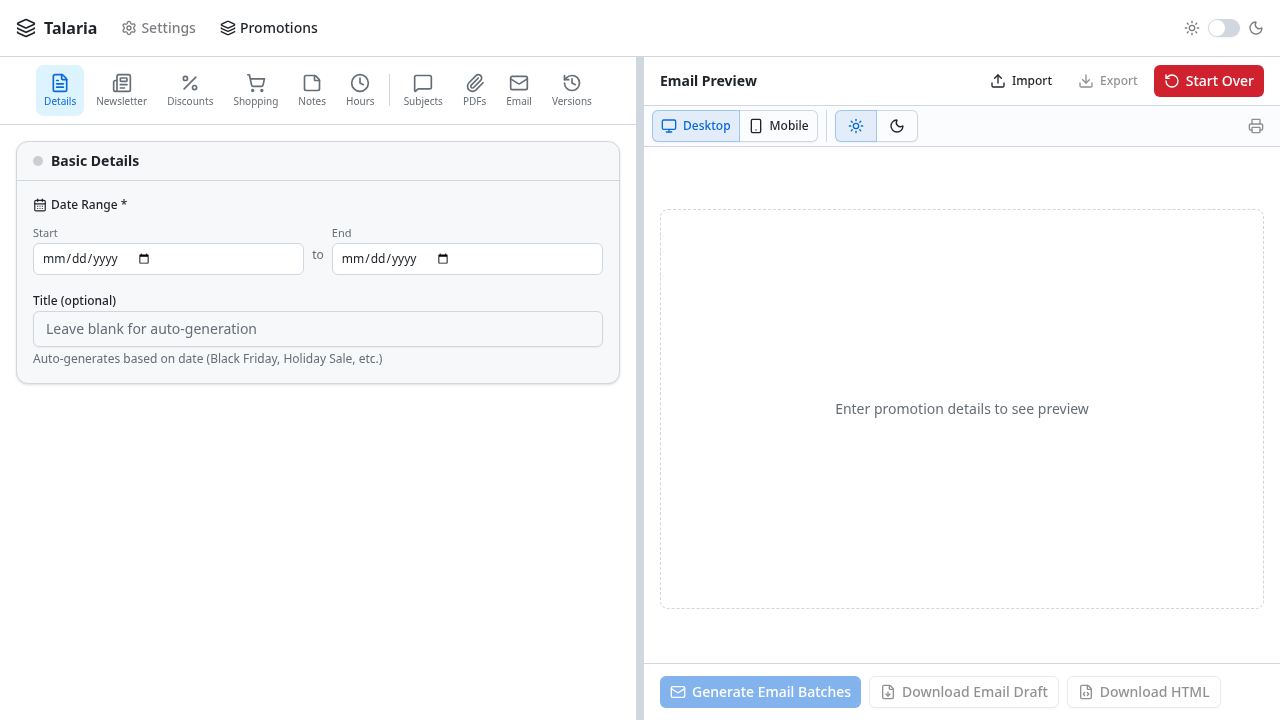
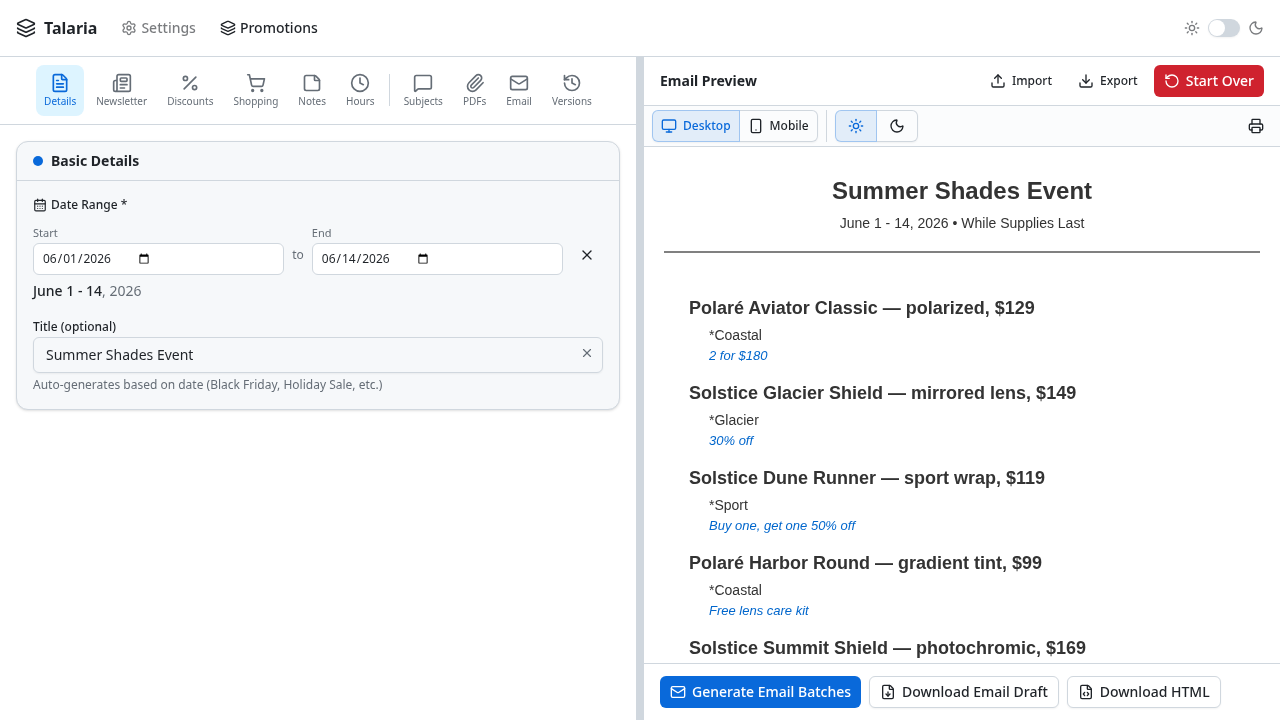
feat(screenshots): fill the builder preview with a synthetic sunglasses promotion
Seed `promotionBuilderState` alongside the profile so /promotion captures a
rendered email instead of the 'Enter promotion details to see preview'
placeholder, and reshape the demo profile to the same fictional brand
(Solstice Optics) so both screenshots tell one story.

diff --git a/capture-screenshots.js b/capture-screenshots.js
@@ -9,18 +9,129 @@ const outDir = 'docs/screenshots';
 // the real builder instead of the redirect target.
 const DEMO_PROFILE = {
   employeeName: 'Alex Rivera',
-  jobTitle: 'Store Manager',
-  companyName: 'Horology Retail Group',
-  storeName: 'Riverside Watches',
-  storeLocation: 'Las Vegas, NV',
-  storeAddress: '1231 Main St, Las Vegas, NV 89101',
-  storePhone: '(702) 555-0142',
-  storeEmail: 'riverside@horologyexample.com',
-  storeHours: 'Mon–Sat 10am–7pm, Sun 11am–6pm',
-  productNoun: 'watch',
-  productNounPlural: 'watches',
-  brandKeywords: ['Riverside'],
-  collectionKeywords: ['Aria', 'Meridian'],
+  // Must be one of JOB_TITLES (src/lib/profile-validation.ts) or the Settings
+  // select renders blank; "General Manager" is the closest store-manager role.
+  // It's a MANAGEMENT_TITLE, so companyEmail is required alongside it.
+  jobTitle: 'General Manager',
+  companyEmail: 'alex.rivera@solsticeoptics.example.com',
+  companyName: 'Solstice Optics',
+  storeName: 'Solstice Optics — Summerlin',
+  storeLocation: 'Summerlin, Las Vegas, NV',
+  storeAddress: '1980 Festival Plaza Dr, Las Vegas, NV 89135',
+  storeDirections: 'Festival Plaza Dr, across from the Downtown Summerlin fountain',
+  storePhone: '(702) 555-0187',
+  storeEmail: 'hello@solsticeoptics.example.com',
+  storeHours: 'Mon–Sat 10am–7pm, Sun 11am–5pm',
+  productNoun: 'sunglass',
+  productNounPlural: 'sunglasses',
+  brandKeywords: ['Solstice', 'Polaré', 'Aviator Classic'],
+  collectionKeywords: ['Coastal', 'Glacier', 'Sport'],
+};
+
+// A filled-in promotion so the builder screenshot shows a real email instead of
+// the "Enter promotion details to see preview" placeholder. The shape is
+// `PromotionPersistedState` (see persistState/restoreState in
+// src/stores/promotion-store.ts); the preview only renders once
+// `promoDateRange` is non-empty. `howToShopStyle`, `importantNotesStyle` and
+// `emailPalette` are deliberately omitted — restoreState's sanitizer falls back
+// to the app defaults, so the capture shows the stock palette.
+//
+// Everything here is invented: "Solstice Optics" and "Polaré" are not real
+// brands, the address is a placeholder, phones are 555 and mail is .example.com.
+const DEMO_PROMOTION = {
+  promoDateRange: 'June 1 - 14',
+  promoYear: '2026',
+  promoTitle: 'Summer Shades Event',
+  promotionEntries: [
+    {
+      id: 1,
+      line: 'Polaré Aviator Classic — polarized, $129',
+      collections: 'Coastal',
+      callout: '2 for $180',
+    },
+    {
+      id: 2,
+      line: 'Solstice Glacier Shield — mirrored lens, $149',
+      collections: 'Glacier',
+      callout: '30% off',
+    },
+    {
+      id: 3,
+      line: 'Solstice Dune Runner — sport wrap, $119',
+      collections: 'Sport',
+      callout: 'Buy one, get one 50% off',
+    },
+    {
+      id: 4,
+      line: 'Polaré Harbor Round — gradient tint, $99',
+      collections: 'Coastal',
+      callout: 'Free lens care kit',
+    },
+    {
+      id: 5,
+      line: 'Solstice Summit Shield — photochromic, $169',
+      collections: 'Glacier, Sport',
+      callout: '$25 off',
+    },
+  ],
+  specialHours: [{ id: 1, day: 'Saturday, June 6', hours: '9am – 8pm' }],
+  // The `autoField` lines are regenerated from the profile on load
+  // (refreshAutoLines), so the seeded text below is only a placeholder for the
+  // rendered "Email …" / "Call … for availability" / "Find us at …" lines.
+  howToShopItems: [
+    {
+      id: 1,
+      text: 'Reply to this email to reserve a pair before the event.',
+      bold: false,
+      italic: false,
+      underline: false,
+    },
+    {
+      id: 2,
+      text: 'Email hello@solsticeoptics.example.com',
+      bold: false,
+      italic: false,
+      underline: false,
+      autoField: 'storeEmail',
+    },
+    {
+      id: 3,
+      text: 'Call (702) 555-0187 for availability',
+      bold: false,
+      italic: false,
+      underline: false,
+      autoField: 'storePhone',
+    },
+  ],
+  importantNotesItems: [
+    {
+      id: 1,
+      text: 'Event pricing is in store only, June 1–14. Prescription lenses quoted separately.',
+      bold: false,
+      italic: false,
+      underline: false,
+    },
+    {
+      id: 2,
+      text: 'Find us at Festival Plaza Dr',
+      bold: false,
+      italic: false,
+      underline: false,
+      autoField: 'storeDirections',
+    },
+  ],
+  attachedPDFs: [],
+  generatedSubjectLines: [
+    'Summer Shades Event — polarized favorites, June 1-14',
+    'Two weeks only: Solstice & Polaré at event pricing',
+    'Coastal, Glacier & Sport — the Summer Shades Event starts June 1',
+  ],
+  selectedSubjectLine: 'Summer Shades Event — polarized favorites, June 1-14',
+  preheaderText: 'Polarized favorites, event pricing',
+  newsletterHeading: 'Newsletter',
+  newsletterBody: '',
+  newsletterPosition: 'top',
+  newsletterVisible: false,
 };
 
 (async () => {
@@ -38,15 +149,18 @@ const DEMO_PROFILE = {
   };
 
   try {
-    // Settings first, with no profile seeded yet — the empty default page is
-    // the honest picture of a fresh install.
-    await capture('/settings', 'profile-settings.png');
+    // Seed the profile (opens the builder's gate) and the builder state (fills
+    // the preview) for every navigation, so both captures tell the same
+    // Solstice Optics story.
+    await context.addInitScript((seed) => {
+      localStorage.setItem('userProfile', JSON.stringify(seed.profile));
+      localStorage.setItem(
+        'promotionBuilderState',
+        JSON.stringify(seed.promotion)
+      );
+    }, { profile: DEMO_PROFILE, promotion: DEMO_PROMOTION });
 
-    // Seed the profile for every subsequent navigation, then capture the
-    // builder now that the gate opens.
-    await context.addInitScript((profile) => {
-      localStorage.setItem('userProfile', JSON.stringify(profile));
-    }, DEMO_PROFILE);
+    await capture('/settings', 'profile-settings.png');
 
     await capture('/promotion', 'promotion-builder.png');
     if (!page.url().includes('/promotion')) {
@@ -54,6 +168,26 @@ const DEMO_PROFILE = {
         'Profile gate still closed: /promotion redirected to ' +
           page.url() +
           ' — the seeded `userProfile` localStorage key was not picked up.'
+      );
+    }
+
+    // The preview iframe renders a placeholder until the store hydrates a
+    // non-empty promoDateRange — assert we captured a real email, not that.
+    const previewText = await page
+      .frameLocator('iframe')
+      .first()
+      .locator('body')
+      .innerText();
+    if (previewText.includes('Enter promotion details to see preview')) {
+      throw new Error(
+        'Preview still empty: the seeded `promotionBuilderState` did not hydrate ' +
+          '— check it against PromotionPersistedState in src/stores/promotion-store.ts.'
+      );
+    }
+    if (!previewText.includes('SOLSTICE OPTICS')) {
+      throw new Error(
+        'Preview rendered without the seeded store name; got: ' +
+          previewText.slice(0, 200)
       );
     }
   } finally {
